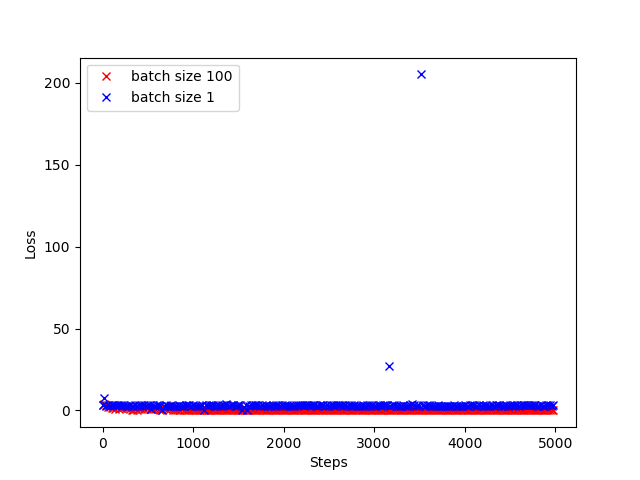
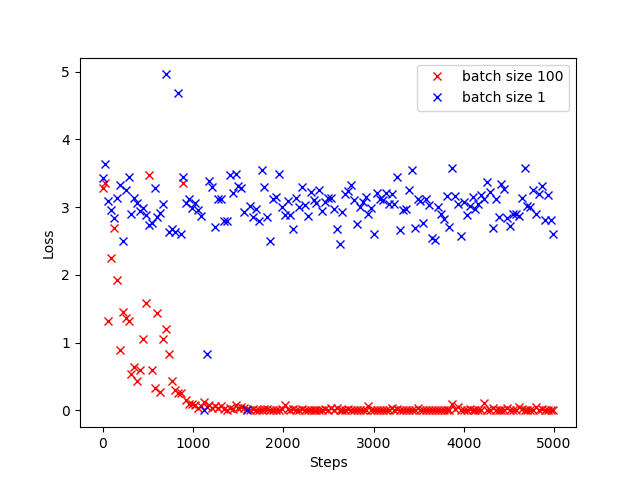
prettier

diff --git a/part2/plot_var_in_train.py b/part2/plot_var_in_train.py
@@ -6,8 +6,21 @@ import numpy as np
 
 loss_100 = np.array(pickle.load(open("train_loss100.pkl", "rb")))
 loss_1 = np.array(pickle.load(open("train_loss1.pkl", "rb")))
+
+def smooth_data(data, threshold=5):
+    """
+    replace any data larger than threshold with average between two time step
+    """
+    for i in range(1, len(data)):
+        if data[i] > threshold:
+            data[i] = (data[i-1] + data[i+1]) / 2
+    return data
+
+loss_100 = smooth_data(loss_100)
+loss_1 = smooth_data(loss_1)
+
 plt.figure()
-steps = np.arange(0,5000,20)
+steps = np.arange(0,5000,32)
 plt_100, = plt.plot(steps, loss_100[steps], 'rx')
 plt_1, = plt.plot(steps, loss_1[steps], 'bx')
 plt.legend([plt_100, plt_1], ["batch size 100","batch size 1"])
